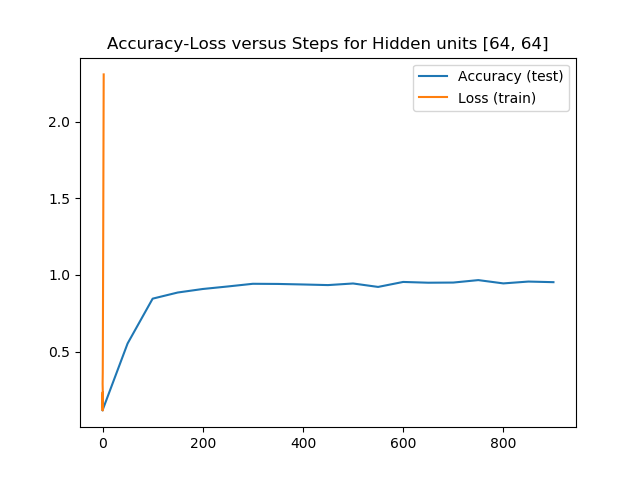
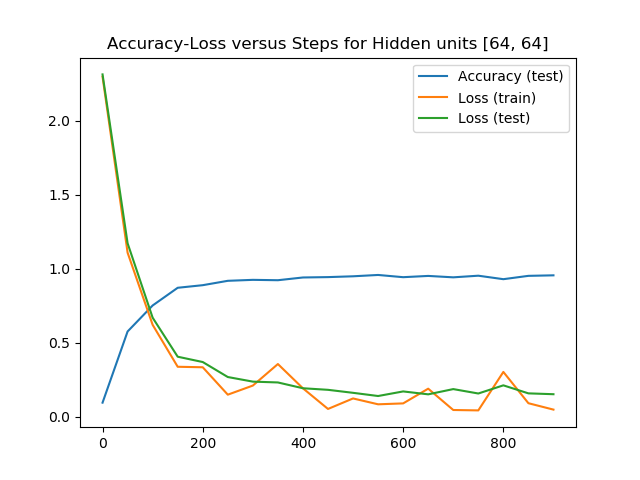
added assign 3$

diff --git a/assign-3/q1.py b/assign-3/q1.py
@@ -142,8 +142,8 @@ for epoch in range(EPOCH):
             print('Epoch: ', epoch, '| Step: ', step,'| train loss: %.4f' % loss.data.numpy(), '| test accuracy: %.2f' % accuracy)
 
             test_acc.append(accuracy)
-            train_ll.append(loss)
-            test_ll.append(test_loss)
+            train_ll.append(float(loss.detach().numpy()))
+            test_ll.append(float(test_loss.detach().numpy()))
 
 # print 10 predictions from test data
 test_output = rnn(test_x[:10].view(-1, 28, 28))
@@ -155,12 +155,14 @@ print(f"Len {len(test_acc)}")
 print(f"Len {len(test_ll)}")
 print(f"Len {len(train_ll)}")
 
-
-plt.plot(np.arange(len(test_acc))*50,test_acc, train_ll, test_ll)
+print(train_ll)
+plt.plot(np.arange(len(test_acc))*50,test_acc )
+plt.plot(np.arange(len(test_acc))*50, train_ll)
+plt.plot(np.arange(len(test_acc))*50, test_ll)
 plt.legend(['Accuracy (test)','Loss (train)', 'Loss (test)'])
 plt.title(f"Accuracy-Loss versus Steps for Hidden units {args.list}")
 if not args.bi:
     plt.savefig(f"logs/Q1-MNIST-{args.model}-{args.list}.png")
 else:
     plt.savefig(f"logs/Q1-MNIST-{args.model}-bidirectional-{args.list}.png")
-plt.show()
+plt.close()
